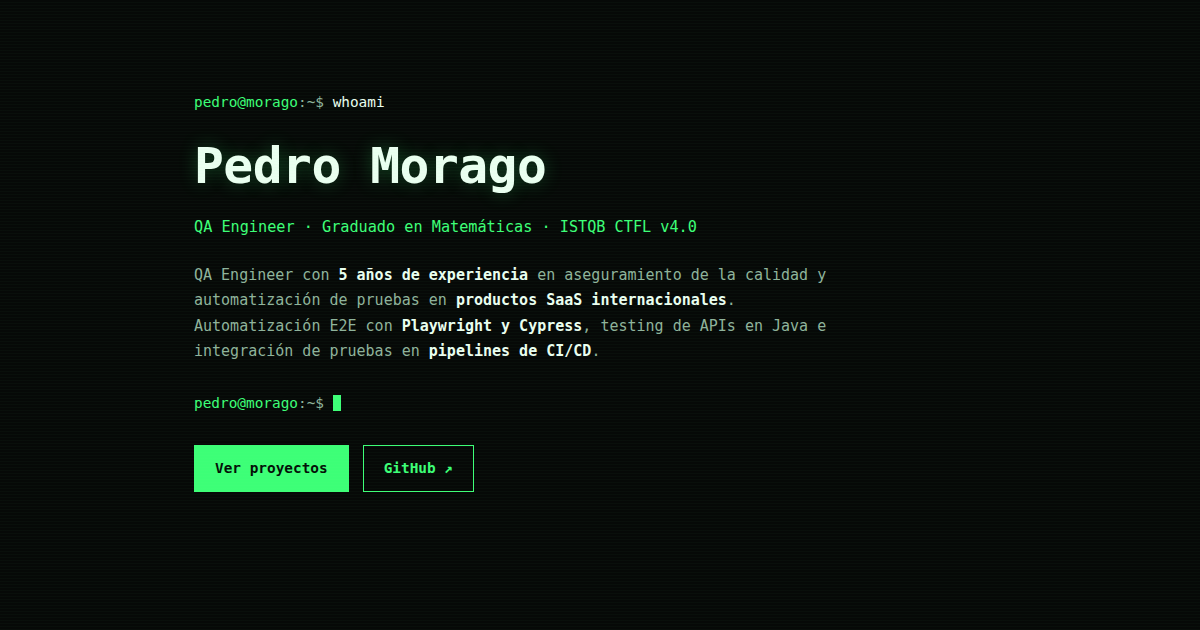
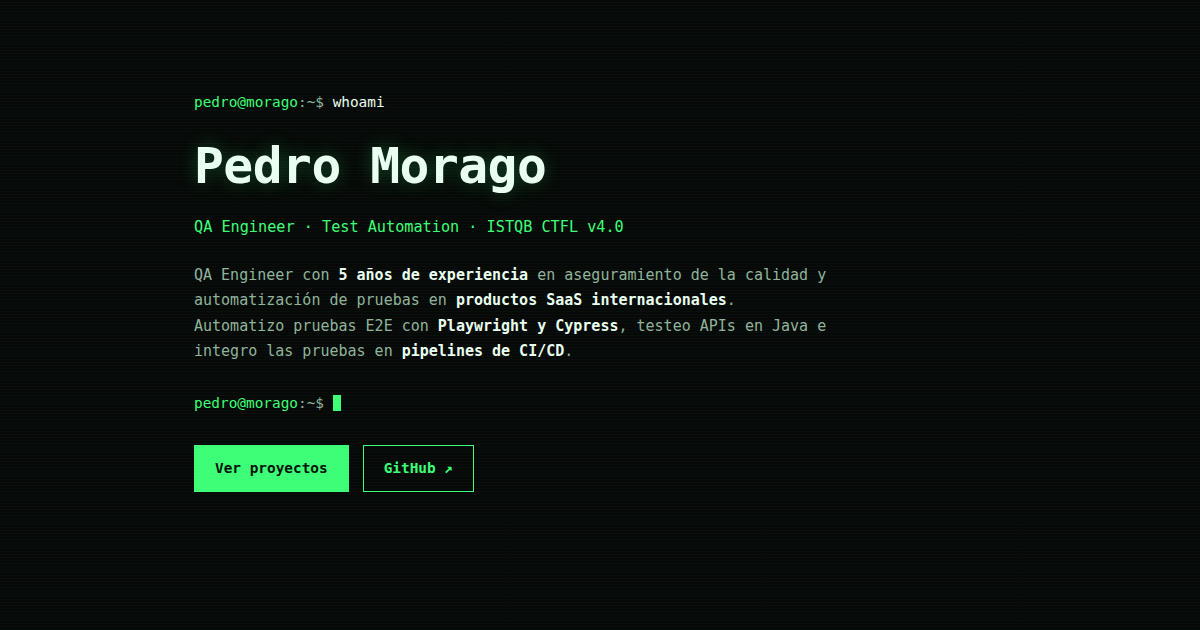
Repaso de humanización de todos los textos
- Eliminar las rayas (—) que separaban frases en ambos idiomas,
  reescribiendo con comas y puntos
- Cambiar las cifras estilo dashboard (−40 %, −80 %) por redacción
  natural (un 40 % menos, un 80 % menos)
- Primera persona en la tagline del hero (automatizo, testeo, integro)
- Quitar 'Graduado en Matemáticas' de la línea de rol del hero; la
  formación queda contada en la cita y en sobre mí
- Corregir la repetición 'listas... listas' en CI Shard Advisor
- Regenerar og-image

Changed region(s): [[0.2158, 0.4825, 0.5858, 0.573], [0.2775, 0.3317, 0.5858, 0.3921]]

diff --git a/index.html b/index.html
@@ -45,12 +45,12 @@
     <div class="container">
       <p class="ps1"><span class="user">pedro@morago</span>:~$ <span class="cmd" id="typed">whoami</span></p>
       <h1>Pedro Morago</h1>
-      <p class="hero-role">QA Engineer · Graduado en Matemáticas · ISTQB CTFL v4.0</p>
+      <p class="hero-role">QA Engineer · Test Automation · ISTQB CTFL v4.0</p>
       <p class="hero-tagline">
         QA Engineer con <strong>5 años de experiencia</strong> en aseguramiento de la calidad y
         automatización de pruebas en <strong>productos SaaS internacionales</strong>.
-        Automatización E2E con <strong>Playwright y Cypress</strong>, testing de APIs en Java
-        e integración de pruebas en <strong>pipelines de CI/CD</strong>.
+        Automatizo pruebas E2E con <strong>Playwright y Cypress</strong>, testeo APIs en Java
+        e integro las pruebas en <strong>pipelines de CI/CD</strong>.
       </p>
       <p class="ps1" aria-hidden="true"><span class="user">pedro@morago</span>:~$ <span class="cursor"></span></p>
       <div class="hero-actions">
@@ -69,7 +69,7 @@
             <p>
               «En programación, lo perfecto es enemigo de lo bueno», repetía un profesor en el
               bootcamp donde me formé como developer. Viniendo de <strong>Matemáticas</strong>,
-              nunca me acostumbré del todo a esa idea — así que elegí la especialidad donde el
+              nunca me acostumbré del todo a esa idea, así que elegí la especialidad donde el
               rigor no es un obstáculo, sino el oficio: <strong>QA</strong>.
             </p>
           </blockquote>
@@ -91,7 +91,7 @@
           </p>
           <p>
             Más allá de encontrar bugs, me interesa construir <strong>procesos y herramientas que
-            ayuden a evitar que lleguen a producción</strong>; por eso mis proyectos personales giran
+            ayuden a evitar que lleguen a producción</strong>. Por eso mis proyectos personales giran
             en torno al testing y la automatización. Certificado <strong>ISTQB CTFL v4.0</strong>.
           </p>
         </div>
@@ -110,9 +110,9 @@
           <p class="job-meta">En remoto · SaaS internacional · Ciberseguridad / Threat Modelling</p>
           <ul class="project-features">
             <li>Lidero la estrategia de testing del módulo <strong>Security Content</strong>, definiendo el mix de pruebas a lo largo de la pirámide (unit, integración, backend, E2E).</li>
-            <li>Diseñé y desplegué en Python un modelo de <strong>optimización (MILP)</strong> para la ejecución paralela de los tests E2E en CI/CD: <strong>−40 % de tiempo de pipeline</strong> sin aumentar el coste de infraestructura, validado en producción.</li>
+            <li>Diseñé y desplegué en Python un modelo de <strong>optimización (MILP)</strong> para la ejecución paralela de los tests E2E en CI/CD: <strong>un 40 % menos de tiempo de pipeline</strong> sin aumentar el coste de infraestructura, validado en producción.</li>
             <li>Automatización backend de APIs en <strong>Java con REST Assured y JUnit 5</strong>: patrón Given-When-Then, validación de JSON schemas, casos negativos e integración con Qase.</li>
-            <li>Participé en la migración de TestCafe a <strong>Playwright con TypeScript</strong>: −80 % en tiempos de ejecución y mayor estabilidad de la suite.</li>
+            <li>Participé en la migración de TestCafe a <strong>Playwright con TypeScript</strong>: un 80 % menos en tiempos de ejecución y mayor estabilidad de la suite.</li>
             <li>Contribuyo a los pipelines CI/CD en Bitbucket y aplico <strong>Shift Left</strong>: revisión de requisitos y diseños técnicos desde fases tempranas.</li>
           </ul>
         </article>
@@ -153,7 +153,7 @@
           <ul class="project-features">
             <li>Análisis 100 % local y privado: los reportes nunca salen del navegador.</li>
             <li>Tres interfaces: web interactiva, CLI con modo <em>quality-gate</em> y API REST local.</li>
-            <li>Recomendaciones accionables: listas de specs por contenedor listas para copiar en GitHub Actions o Bitbucket Pipelines.</li>
+            <li>Recomendaciones accionables: listas de specs por contenedor preparadas para copiar en GitHub Actions o Bitbucket Pipelines.</li>
             <li>Núcleo puro con arquitectura hexagonal, probado con tests de propiedades, metamórficos y de invariantes.</li>
           </ul>
           <div class="project-tech">
@@ -179,7 +179,7 @@
           <ul class="project-features">
             <li>Modo QA: consola, errores, 404s y HAR sincronizados por timestamp con el vídeo.</li>
             <li>Anotaciones sobre el vídeo en directo y marcadores con atajo de teclado para señalar el momento exacto del bug.</li>
-            <li>Registro automático de pasos (clics, formularios) exportable como <code>*.steps.md</code> — sin registrar nunca los valores escritos.</li>
+            <li>Registro automático de pasos (clics, formularios) exportable como <code>*.steps.md</code>, sin registrar nunca los valores escritos.</li>
             <li>Genera el reporte completo y crea el issue directamente en <strong>Jira Cloud o Linear</strong>.</li>
             <li>Cero dependencias externas: solo APIs nativas del navegador.</li>
           </ul>
@@ -198,8 +198,8 @@
           </div>
           <p class="project-tagline">Próximamente…</p>
           <p>
-            Proyecto actualmente en construcción. Muy pronto habrá más detalles por aquí —
-            mientras tanto, puedes seguir el progreso en mi GitHub.
+            Proyecto actualmente en construcción. Muy pronto habrá más detalles por aquí.
+            Mientras tanto puedes seguir el progreso en mi GitHub.
           </p>
           <div class="project-links">
             <a href="https://github.com/pedro-morago" target="_blank" rel="noopener" class="btn btn-small">Seguir en GitHub ↗</a>

diff --git a/en/index.html b/en/index.html
@@ -45,12 +45,12 @@
     <div class="container">
       <p class="ps1"><span class="user">pedro@morago</span>:~$ <span class="cmd" id="typed">whoami</span></p>
       <h1>Pedro Morago</h1>
-      <p class="hero-role">QA Engineer · BSc in Mathematics · ISTQB CTFL v4.0</p>
+      <p class="hero-role">QA Engineer · Test Automation · ISTQB CTFL v4.0</p>
       <p class="hero-tagline">
         QA Engineer with <strong>5 years of experience</strong> in quality assurance and
         test automation for <strong>international SaaS products</strong>.
-        E2E automation with <strong>Playwright and Cypress</strong>, API testing in Java,
-        and test integration in <strong>CI/CD pipelines</strong>.
+        I automate E2E tests with <strong>Playwright and Cypress</strong>, test APIs in Java
+        and integrate testing into <strong>CI/CD pipelines</strong>.
       </p>
       <p class="ps1" aria-hidden="true"><span class="user">pedro@morago</span>:~$ <span class="cursor"></span></p>
       <div class="hero-actions">
@@ -69,7 +69,7 @@
             <p>
               "In programming, perfect is the enemy of good," a teacher used to repeat at the
               bootcamp where I trained as a developer. Coming from <strong>Mathematics</strong>,
-              I never quite got used to that idea — so I chose the specialty where rigor isn't
+              I never quite got used to that idea, so I chose the specialty where rigor isn't
               an obstacle, but the craft itself: <strong>QA</strong>.
             </p>
           </blockquote>
@@ -91,7 +91,7 @@
           </p>
           <p>
             Beyond finding bugs, I'm interested in building <strong>processes and tools that
-            help keep them out of production</strong>; that's why my personal projects revolve
+            help keep them out of production</strong>. That's why my personal projects revolve
             around testing and automation. <strong>ISTQB CTFL v4.0</strong> certified.
           </p>
         </div>
@@ -110,9 +110,9 @@
           <p class="job-meta">Remote · International SaaS · Cybersecurity / Threat Modelling</p>
           <ul class="project-features">
             <li>I lead the testing strategy for the <strong>Security Content</strong> module, defining the test mix across the pyramid (unit, integration, backend, E2E).</li>
-            <li>Designed and deployed a Python <strong>optimization model (MILP)</strong> for parallel E2E test execution in CI/CD: <strong>−40 % pipeline time</strong> with no extra infrastructure cost, validated in production.</li>
+            <li>Designed and deployed a Python <strong>optimization model (MILP)</strong> for parallel E2E test execution in CI/CD: <strong>40 % less pipeline time</strong> with no extra infrastructure cost, validated in production.</li>
             <li>Backend API automation in <strong>Java with REST Assured and JUnit 5</strong>: Given-When-Then pattern, JSON schema validation, negative cases and Qase integration.</li>
-            <li>Took part in the migration from TestCafe to <strong>Playwright with TypeScript</strong>: −80 % execution time and a more stable suite.</li>
+            <li>Took part in the migration from TestCafe to <strong>Playwright with TypeScript</strong>: 80 % less execution time and a more stable suite.</li>
             <li>I contribute to CI/CD pipelines in Bitbucket and apply <strong>Shift Left</strong>: reviewing requirements and technical designs from early stages.</li>
           </ul>
         </article>
@@ -179,7 +179,7 @@
           <ul class="project-features">
             <li>QA mode: console, errors, 404s and HAR synced to the video by timestamp.</li>
             <li>Live on-video annotations and keyboard-shortcut markers to flag the exact moment of the bug.</li>
-            <li>Automatic step recording (clicks, forms) exportable as <code>*.steps.md</code> — typed values are never logged.</li>
+            <li>Automatic step recording (clicks, forms) exportable as <code>*.steps.md</code>, and typed values are never logged.</li>
             <li>Generates the full report and files the issue directly in <strong>Jira Cloud or Linear</strong>.</li>
             <li>Zero external dependencies: native browser APIs only.</li>
           </ul>
@@ -198,8 +198,8 @@
           </div>
           <p class="project-tagline">Coming soon…</p>
           <p>
-            Currently under construction. More details here soon — in the meantime,
-            you can follow the progress on my GitHub.
+            Currently under construction. More details here soon.
+            In the meantime you can follow the progress on my GitHub.
           </p>
           <div class="project-links">
             <a href="https://github.com/pedro-morago" target="_blank" rel="noopener" class="btn btn-small">Follow on GitHub ↗</a>
